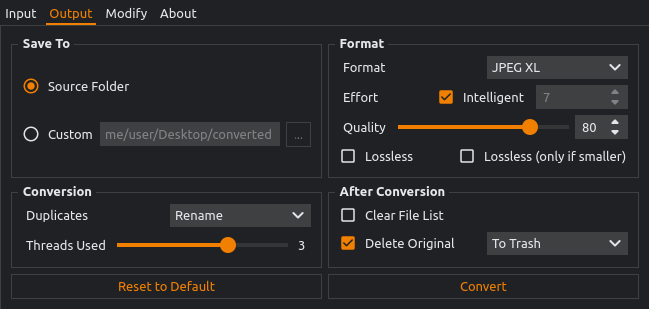
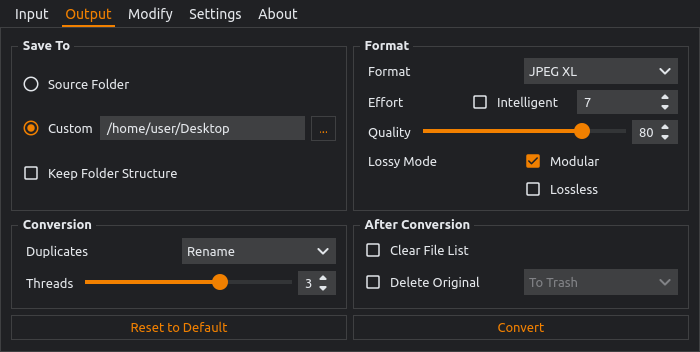
readme: Clean up

Changed region(s): [[0.0, 0.0, 1.0, 1.0], [0.0308, 0.2039, 0.4622, 0.5243], [0.0308, 0.5534, 0.4931, 0.5825]]

diff --git a/README.md b/README.md
@@ -26,7 +26,7 @@ Encode images in parallel to speed up the process. Control how much CPU to use d
 
 #### JPG Reconstruction
 
-Losslessly transcode JPG to JPEG XL, reverse the process when needed.
+Losslessly transcode JPG to JPEG XL, and reverse the process when needed.
 
 #### Image Proxy
 
@@ -69,7 +69,7 @@ Feel free to make bug reports as contributions.
 ## Building from Source
 
 > [!NOTE]
-> The recommended way to use XL Converter is by using the [official binary releases](https://codepoems.eu/xl-converter). The building process is time-consuming.
+> The recommended way of using XL Converter is through the [official binary releases](https://codepoems.eu/xl-converter). The building process is time-consuming and tedious.
 
 ### Windows 10
 
@@ -209,17 +209,13 @@ All binaries are built statically. The version numbers should match. Binaries on
 
 ## Info
 
-### Python Version
+> [!IMPORTANT]
+> This project runs on Python `3.11`. Other versions are not supported.
 
-This project runs on Python `3.11.9`. It should also work on a slightly older version. `3.12` and newer are not supported.
-
-### Large Files
-
-Don't forget `--depth 1` when running `git clone`. This repo contains large files.
+> [!NOTE]
+> Don't forget `--depth 1` when running `git clone` to avoid large files.
 
 ## Unit Testing
-
-Unit tests are currently being reworked.
 
 ### Running
 
@@ -234,13 +230,7 @@ pip install -r requirements.txt
 pip install -r requirements_test.txt
 ```
 
-Run tests (Linux)
-
-```bash
-make test
-```
-
-Run tests (Windows)
+Run tests
 
 ```cmd
 python test.py
@@ -248,7 +238,7 @@ python test.py
 
 ### Deprecated
 
-`test_old.py` is a deprecated, but still accessible test suite.
+`test_old.py` is a deprecated, but still accessible test suite focusing on the conversion results.
 
 ```bash
 python test_old.py
